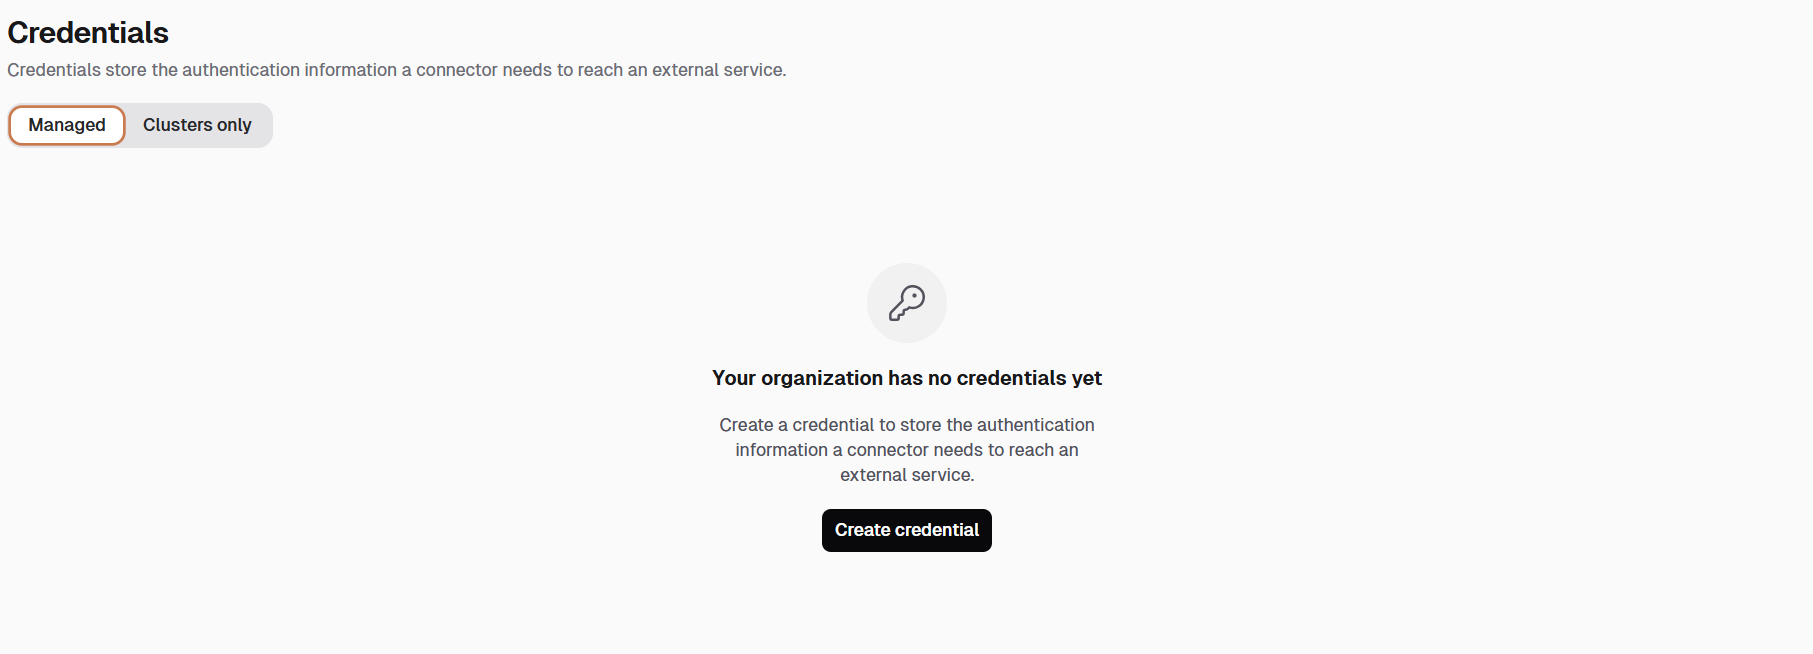
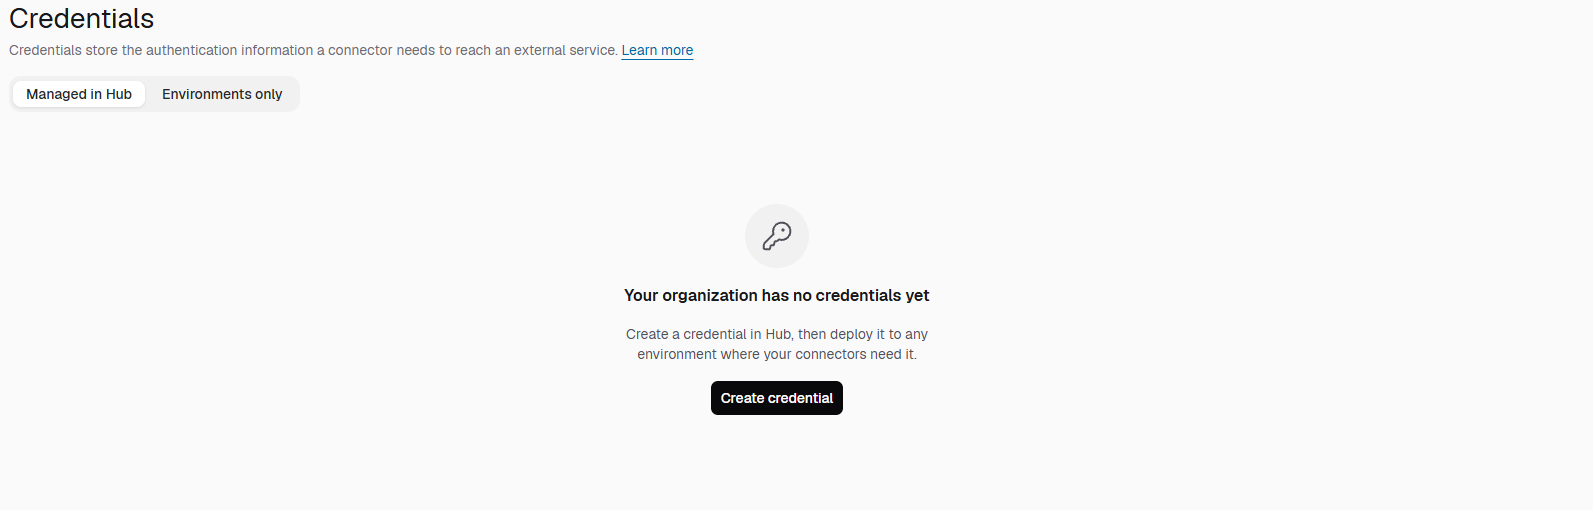
docs(hub): cover SaaS cluster labels, cluster-side authorization, and email credentials
Address the technical review on the credentials pages.

- Permissions: Hub's own check is organization membership only, but
  Hub deploys, redeploys, and deletes a credential with the user's own
  identity, so the cluster's authorizations still apply. Document the
  per-target failure, the kept credential on a refused delete, the
  basic-auth prompt, and that the environment picker only lists
  environments the user can see.
- SaaS: environments-enabled is not part of the SaaS flag flip at the
  8.10 cutover, so add a note that SaaS labels targets as clusters
  (Clusters only) while everything else applies unchanged.
- Credential types: add Email Account (Inbound) and Email Account
  (Outbound), both on stable/8.10.
- Recapture the three screenshots against the current UI and update
  their alt text.

diff --git a/docs/components/hub/organization/credentials/index.md b/docs/components/hub/organization/credentials/index.md
@@ -31,6 +31,10 @@ A credential is deployed to environments, not to clusters. An environment is the
 - Camunda Hub shows an environment by its name, and adds the cluster name in parentheses whenever the two names differ.
 - On a Self-Managed cluster with several Physical Tenants, each environment is an independent target, with its own copy of the credential, its own values, and its own state. A credential deployed to one environment is not readable from the other environments on that cluster.
 
+:::note
+Camunda 8 SaaS does not show environments yet, so Hub labels each target as a cluster there. The **Environments only** tab is named **Clusters only**, and the wizard, the credential list, and the scan say _cluster_ wherever this page says _environment_. A SaaS cluster holds a single environment, so everything else on this page applies unchanged.
+:::
+
 ## Terminology
 
 | Term            | Meaning                                                                                                                                                                                                                                                    |
@@ -92,11 +96,13 @@ The same warning appears in the [modeling interface](./modeling-interface.md#cre
 
 Camunda provides a credential type for each family of connectors that supports credentials. The following types are available:
 
-| Credential type     | Bound to the connector's input | Example connectors                                                              |
-| ------------------- | ------------------------------ | ------------------------------------------------------------------------------- |
-| AWS Credential      | `awsCredential`                | Amazon SQS, Amazon S3, Amazon Bedrock, and other Amazon Web Services connectors |
-| REST Authentication | `authenticationConfiguration`  | HTTP Polling, HTTP REST, and GraphQL connectors                                 |
-| JDBC Connection     | `configuration`                | Execute SQL Statement on Database                                               |
+| Credential type          | Bound to the connector's input | Example connectors                                                                                                 |
+| ------------------------ | ------------------------------ | ------------------------------------------------------------------------------------------------------------------ |
+| AWS Credential           | `awsCredential`                | Amazon SQS, Amazon S3, Amazon Bedrock, and other Amazon Web Services connectors                                    |
+| REST Authentication      | `authenticationConfiguration`  | HTTP Polling, HTTP REST, and GraphQL connectors                                                                    |
+| JDBC Connection          | `configuration`                | Execute SQL Statement on Database                                                                                  |
+| Email Account (Inbound)  | `emailAccountConfiguration`    | Email Boundary Event, Email Intermediate Catch Event, Email Receive Task, and Email Message Start Event connectors |
+| Email Account (Outbound) | `emailAccountConfiguration`    | Email Connector                                                                                                    |
 
 More connectors gain credential support over time, so this list grows. Each credential type card in the **Create a credential** wizard lists the connectors that currently use that type under **Used by**.
 
@@ -111,7 +117,7 @@ Camunda Hub provides a **Credentials** page for your organization. It has two ta
 
 Before you create your first credential, the **Managed in Hub** tab shows an empty state with a **Create credential** button.
 
-![Managed tab of the Credentials page in Camunda Hub, showing the message "Your organization has no credentials yet" and a Create credential button](./img/credentials-managed-empty.png)
+![Managed in Hub tab of the Credentials page in Camunda Hub, showing the message "Your organization has no credentials yet" and a Create credential button](./img/credentials-managed-empty.png)
 
 Once credentials exist, this tab lists them with their name, credential type, state, the environments they cover, and when they were last modified.
 
@@ -121,7 +127,7 @@ To create a credential, select **Create credential**, and complete the three ste
 
 1. **Choose credential**: select the credential type for the connector you want to authenticate. Each card describes the credential type and lists the connectors that use it. Use the search field to search by credential type or by connector name.
 
-   ![Step 1 of the Create a credential wizard, showing cards for AWS Credential, REST Authentication, and JDBC Connection, each listing the connectors that use it](./img/credentials-choose-credential.png)
+   ![Step 1 of the Create a credential wizard, showing a card for each credential type, such as AWS Credential, REST Authentication, and JDBC Connection, each listing the connectors that use it](./img/credentials-choose-credential.png)
 
 2. **Configure**: name the credential, choose which environments it applies to, and fill in the fields for the credential type you selected.
 
@@ -181,15 +187,23 @@ Adding a credential to Hub links it where it was found, without redeploying it, 
 
 Select **Rescan environments** to run the scan again, for example after a credential is created outside Hub.
 
-![Clusters only tab of the Credentials page, with one cluster selected, a Rescan clusters button, and the message "No cluster-only credentials found"](./img/credentials-clusters-only.png)
+![Environments only tab of the Credentials page, with one environment selected, a paused environment that cannot be selected, and a Scan environments button](./img/credentials-clusters-only.png)
 
 If the scan returns no results, none of the clusters behind the environments you selected has a credential-tagged variable that matches a known credential type and version. Environments that are paused, or whose cluster runs a Camunda version without credential support, are marked as such and cannot be scanned.
 
 ## Permissions
 
-Anyone with read access to your organization in Hub can see the **Credentials** page and the credentials it lists, including their configuration.
+Every member of your organization who has access to Camunda Hub can see the **Credentials** page and every credential it lists, and can open a credential to see its configuration.
 
-Any member with access to your organization can create, edit, deploy, and delete a credential. Camunda Hub applies no separate credential permission, and no cluster, project, or environment check.
+The same members can create, edit, deploy, and delete credentials. Camunda Hub has no separate credential permission, and it does not check your organization role, workspace role, or environment access before it saves a credential.
+
+Hub writes a credential to a cluster with your own identity when it deploys, redeploys, or deletes it, so the cluster's own authorizations still apply:
+
+- If a cluster refuses a deployment, Hub reports that environment as failed with the message `Not authorized to perform this operation on this cluster.`
+- If a cluster refuses to remove a credential because you lack permission or its credentials are wrong, Hub keeps the credential, so you can resolve the problem and delete it again.
+- On a Self-Managed cluster that uses basic authentication, Hub asks you for the cluster's username and password.
+
+When you choose environments for a credential or for a scan, Hub lists only the environments you can see. Members with the **Organization Owner**, **Organization Admin**, or **DevOps** role see every environment. On Self-Managed, so does any role with the `admin:*` or `admin:clusters` permission. Other members see only the environments assigned to workspaces where they are a **Workspace Admin** or **Editor**. The credential list and detail page still show every credential and all of its targets, and a target in an environment you cannot see is shown by its ID.
 
 ## Known limitations
 
@@ -198,12 +212,12 @@ In this release:
 - You cannot create a secret from a credential. Create secrets in [Connector secrets](/components/hub/organization/manage-clusters/manage-secrets.md) first.
 - The plain-text warning checks the whole field value, so a value that combines literal text with a reference, such as `Bearer camunda.secrets.TOKEN`, is flagged even though the reference resolves.
 - Hub does not show which processes use a given credential, so check the impact yourself before you edit or delete one.
-- Credentials are visible to everyone with read access to your organization. You cannot restrict a credential to a project or a subset of users.
+- Credentials are visible to everyone in your organization who has access to Camunda Hub. You cannot restrict a credential to a project or a subset of users.
 - A credential's ID cannot be changed after creation.
 - Credentials are edited in place, with no history of previous values.
 - Secret suggestions are cluster-scoped, so a credential field offers every secret name on the cluster that hosts the environment you selected, including names that other environments on that cluster use.
 - Filtering the **Managed in Hub** tab by environment matches every environment on that environment's cluster.
-- Credential permissions are evaluated per organization, not per environment, so they do not follow the isolation between environments on a cluster.
+- Camunda Hub checks credential permissions per organization, not per environment, so its own check does not follow the isolation between environments on a cluster. The cluster's own authorizations still apply when Hub writes to it.
 - The **Environments only** scan reads a cluster's shared variables, which on Self-Managed belong to the `default` Physical Tenant. A credential created directly in another Physical Tenant is not found.
 
 ## Next steps

diff --git a/docs/components/hub/organization/credentials/modeling-interface.md b/docs/components/hub/organization/credentials/modeling-interface.md
@@ -30,7 +30,7 @@ What the chooser offers depends on whether you can edit the diagram, that is, wh
 | You can edit the diagram, and the selected credential is out of date | Select a credential, or upgrade the selected one. |
 | You cannot edit the diagram                                          | Select a credential only.                         |
 
-This only controls what the chooser offers. On the [**Credentials** page](./index.md#permissions), any member with access to your organization can manage credentials.
+This only controls what the chooser offers. On the [**Credentials** page](./index.md#permissions), any member of your organization who has access to Camunda Hub can manage credentials, and the cluster's own authorizations apply whenever Hub writes a credential to it.
 
 The chooser is unavailable while you are not connected to an environment, while you work offline, while the connected environment is paused, or when it runs a Camunda version before 8.10. The field tells you which of these applies.
 
